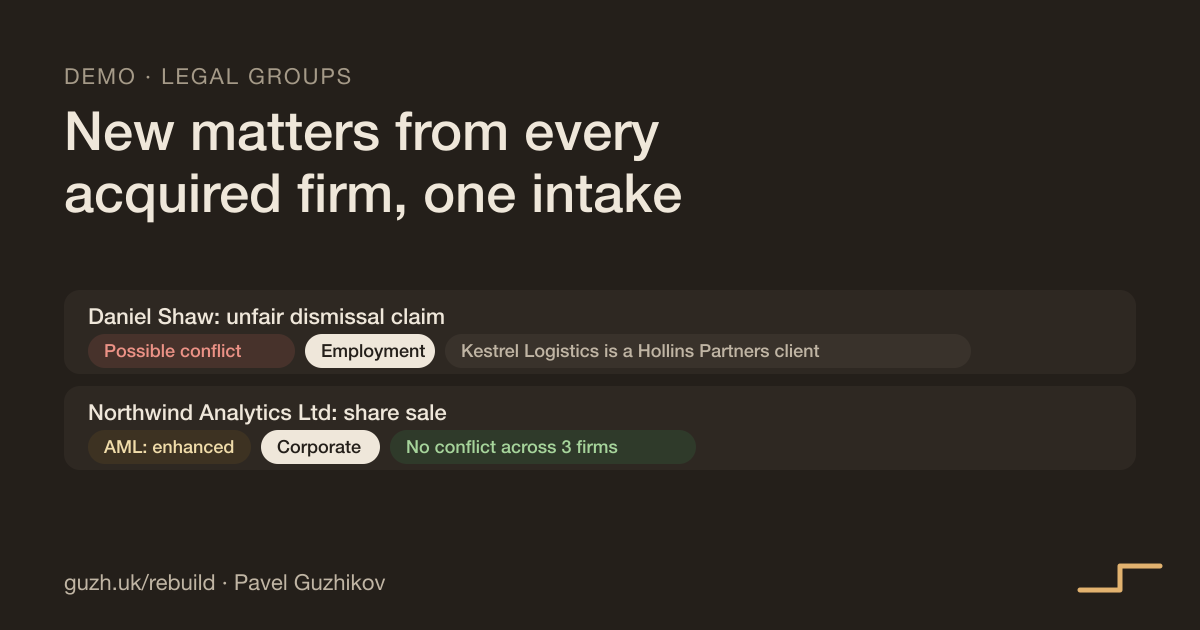
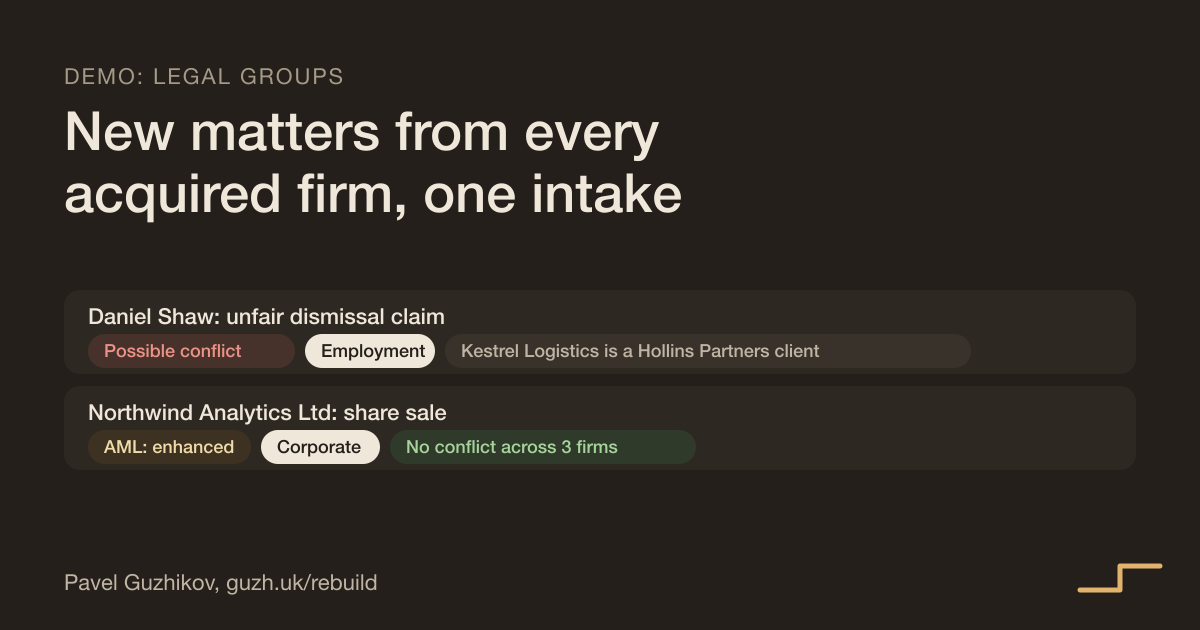
Rebuild pages: no middle dots, no 'invented data' labels
Kickers, footer and share cards no longer use ' · ' separators, and both
generators now refuse to build a page or card containing an em dash or a
middle dot. The demo notes no longer say the data is invented or runs in
the browser; they say how the production build works and who signs off.
Sample registry numbers removed from the lending demo.

Changed region(s): [[0.1233, 0.0905, 0.3083, 0.1508], [0.0308, 0.9048, 0.3392, 0.9349]]

diff --git a/rebuild/lending-intake/index.html b/rebuild/lending-intake/index.html
@@ -199,6 +199,7 @@ label{font-size:14px;color:var(--ink-2)}
 
 .foot{max-width:1040px;margin:0 auto;padding:24px 16px 40px;border-top:1px solid var(--rule-soft);font-size:14px;color:var(--ink-3)}
 .foot p{margin:.3em 0}
+.foot .credit{display:flex;flex-wrap:wrap;gap:6px 18px}
 .foot a{color:var(--ink-2)}
 @media (max-width:640px){
   .home{display:none}
@@ -289,11 +290,11 @@ window.Rebuild = {
 };
 </script>
 <main id="main">
-<p class="kicker">Demo · SME lending</p>
+<p class="kicker">Demo: SME lending</p>
 <h1>A loan pack to a draft credit memo</h1>
 <p class="claim">Your underwriters stop keying bank statements and start every application from a drafted memo with the checks already done. When the facility grows, the same team decides more loans.</p>
 <p class="lead">When a new facility lifts origination, the bottleneck moves to document intake and affordability review. Pick an applicant and press the button: the application and three months of bank statements are read, checked against a lending policy, and written up as a draft memo. The underwriter starts from the decision, not the data entry.</p>
-<p class="note">Invented applicants, statements and policy. In this demo the pack is already text and the checks run in your browser; nothing leaves the page. The production build reads PDFs and scans, pulls the registry and bureau data, applies your credit policy, and every decision stays with the underwriter.</p>
+<p class="note">In production it reads PDFs and scans, pulls registry and bureau data and applies your credit policy. Every decision stays with the underwriter.</p>
 
 <div class="tabsel" id="pick" role="group" aria-label="Applicant"></div>
 <ul class="pipe" id="pipe" aria-label="Steps">
@@ -448,9 +449,9 @@ window.Rebuild = {
   function memo(a, f, list, v) {
     var lines = [];
     lines.push("CREDIT MEMO (DRAFT FOR UNDERWRITER REVIEW)");
-    lines.push("Applicant: " + a.name + " (" + a.reg.number + "), " + a.app.sector.toLowerCase());
+    lines.push("Applicant: " + a.name + ", " + a.app.sector.toLowerCase());
     lines.push("Request: " + R.gbp(a.app.amount) + " over " + a.app.term + " months for " + a.app.purpose.toLowerCase() + ".");
-    lines.push("Indicative repayment: " + R.gbp(f.pay) + " a month at the demo rate of " + Math.round(RATE * 100) + "% a year.");
+    lines.push("Indicative repayment: " + R.gbp(f.pay) + " a month at " + Math.round(RATE * 100) + "% a year.");
     lines.push("");
     lines.push("Trading: average credits " + R.gbp(f.credits) + " and debits " + R.gbp(f.debits) + " a month over three months; closing balance " + R.gbp(f.closing) + ".");
     lines.push("Existing debt service " + R.gbp(f.debt) + " a month. Debt service cover with the new loan " + R.num(f.dscr, 2) + "x.");
@@ -480,7 +481,7 @@ window.Rebuild = {
     pick.querySelectorAll("button").forEach(function (b) { b.setAttribute("aria-pressed", b.dataset.key === a.key ? "true" : "false"); });
     document.getElementById("app").innerHTML = kv([["Business", a.name], ["Director applying", a.app.director], ["Years trading", R.num(a.app.years, 1)],
       ["Amount", R.gbp(a.app.amount)], ["Term", a.app.term + " months"], ["Purpose", a.app.purpose], ["Stated turnover", R.gbp(a.app.turnover) + " a year"]]);
-    document.getElementById("reg").innerHTML = kv([["Number", a.reg.number], ["Status", a.reg.status], ["Incorporated", a.reg.incorporated],
+    document.getElementById("reg").innerHTML = kv([["Status", a.reg.status], ["Incorporated", a.reg.incorporated],
       ["Directors", a.reg.directors.join(", ")], ["CCJs", String(a.reg.ccjs)], ["Filings", a.reg.filings]]);
     var tx = statements(a);
     document.getElementById("txCount").textContent = tx.length;
@@ -534,7 +535,7 @@ window.Rebuild = {
 </main>
 <footer class="foot">
   <p>Empatiq Limited. Write to <a href="mailto:pavel@guzh.uk?subject=Teardown">pavel@guzh.uk</a> for a free 45-minute teardown of one process.</p>
-  <p class="credit"><a href="https://guzh.uk">Made by Pavel Guzhikov</a> · <a href="https://ko-fi.com/pavelg" target="_blank" rel="noopener noreferrer">Buy me a matcha 🍵</a></p>
+  <p class="credit"><a href="https://guzh.uk">Made by Pavel Guzhikov</a> <a href="https://ko-fi.com/pavelg" target="_blank" rel="noopener noreferrer">Buy me a matcha 🍵</a></p>
 </footer>
 </body>
 </html>

diff --git a/tools/rebuild/lending-intake.html b/tools/rebuild/lending-intake.html
@@ -1,8 +1,8 @@
-<p class="kicker">Demo · SME lending</p>
+<p class="kicker">Demo: SME lending</p>
 <h1>A loan pack to a draft credit memo</h1>
 <p class="claim">Your underwriters stop keying bank statements and start every application from a drafted memo with the checks already done. When the facility grows, the same team decides more loans.</p>
 <p class="lead">When a new facility lifts origination, the bottleneck moves to document intake and affordability review. Pick an applicant and press the button: the application and three months of bank statements are read, checked against a lending policy, and written up as a draft memo. The underwriter starts from the decision, not the data entry.</p>
-<p class="note">Invented applicants, statements and policy. In this demo the pack is already text and the checks run in your browser; nothing leaves the page. The production build reads PDFs and scans, pulls the registry and bureau data, applies your credit policy, and every decision stays with the underwriter.</p>
+<p class="note">In production it reads PDFs and scans, pulls registry and bureau data and applies your credit policy. Every decision stays with the underwriter.</p>
 
 <div class="tabsel" id="pick" role="group" aria-label="Applicant"></div>
 <ul class="pipe" id="pipe" aria-label="Steps">
@@ -157,9 +157,9 @@
   function memo(a, f, list, v) {
     var lines = [];
     lines.push("CREDIT MEMO (DRAFT FOR UNDERWRITER REVIEW)");
-    lines.push("Applicant: " + a.name + " (" + a.reg.number + "), " + a.app.sector.toLowerCase());
+    lines.push("Applicant: " + a.name + ", " + a.app.sector.toLowerCase());
     lines.push("Request: " + R.gbp(a.app.amount) + " over " + a.app.term + " months for " + a.app.purpose.toLowerCase() + ".");
-    lines.push("Indicative repayment: " + R.gbp(f.pay) + " a month at the demo rate of " + Math.round(RATE * 100) + "% a year.");
+    lines.push("Indicative repayment: " + R.gbp(f.pay) + " a month at " + Math.round(RATE * 100) + "% a year.");
     lines.push("");
     lines.push("Trading: average credits " + R.gbp(f.credits) + " and debits " + R.gbp(f.debits) + " a month over three months; closing balance " + R.gbp(f.closing) + ".");
     lines.push("Existing debt service " + R.gbp(f.debt) + " a month. Debt service cover with the new loan " + R.num(f.dscr, 2) + "x.");
@@ -189,7 +189,7 @@
     pick.querySelectorAll("button").forEach(function (b) { b.setAttribute("aria-pressed", b.dataset.key === a.key ? "true" : "false"); });
     document.getElementById("app").innerHTML = kv([["Business", a.name], ["Director applying", a.app.director], ["Years trading", R.num(a.app.years, 1)],
       ["Amount", R.gbp(a.app.amount)], ["Term", a.app.term + " months"], ["Purpose", a.app.purpose], ["Stated turnover", R.gbp(a.app.turnover) + " a year"]]);
-    document.getElementById("reg").innerHTML = kv([["Number", a.reg.number], ["Status", a.reg.status], ["Incorporated", a.reg.incorporated],
+    document.getElementById("reg").innerHTML = kv([["Status", a.reg.status], ["Incorporated", a.reg.incorporated],
       ["Directors", a.reg.directors.join(", ")], ["CCJs", String(a.reg.ccjs)], ["Filings", a.reg.filings]]);
     var tx = statements(a);
     document.getElementById("txCount").textContent = tx.length;

diff --git a/rebuild/broker-submissions/index.html b/rebuild/broker-submissions/index.html
@@ -199,6 +199,7 @@ label{font-size:14px;color:var(--ink-2)}
 
 .foot{max-width:1040px;margin:0 auto;padding:24px 16px 40px;border-top:1px solid var(--rule-soft);font-size:14px;color:var(--ink-3)}
 .foot p{margin:.3em 0}
+.foot .credit{display:flex;flex-wrap:wrap;gap:6px 18px}
 .foot a{color:var(--ink-2)}
 @media (max-width:640px){
   .home{display:none}
@@ -289,11 +290,11 @@ window.Rebuild = {
 };
 </script>
 <main id="main">
-<p class="kicker">Demo · insurance brokers and MGAs</p>
+<p class="kicker">Demo: insurance brokers and MGAs</p>
 <h1>A client's renewal information to a market-ready submission</h1>
 <p class="claim">Your handlers stop rekeying renewals and chasing missing details by hand. Every submission reaches insurers complete, and only the ones that will quote, so the same team places more business.</p>
 <p class="lead">Renewal information arrives as an email, last year's schedule and a claims list, in a different shape for every client and every acquired book. Pick a client and press the button: the risk details are read, gaps found, the claims record scored, the panel's appetite checked, and a submission and a chaser to the client drafted.</p>
-<p class="note">Invented clients, insurers and appetite rules. In this demo the information is already text and the checks run in your browser; nothing leaves the page. The production build reads emails, PDFs and spreadsheets from your inbox and broking system, uses your real panel appetite, and a broker approves every submission before it goes.</p>
+<p class="note">In production it reads emails, PDFs and spreadsheets from your inbox and broking system and uses your real panel appetite. A broker approves every submission before it goes.</p>
 
 <div class="tabsel" id="pick" role="group" aria-label="Client"></div>
 <ul class="pipe" id="pipe" aria-label="Steps">
@@ -371,7 +372,7 @@ window.Rebuild = {
       claims: [["2024", "Rear-end collision, M62", 86000], ["2024", "Third-party injury", 142000], ["2024", "Reversing damage", 9000], ["2025", "Load shift, trailer", 31000],
                ["2025", "Rear-end collision", 54000], ["2025", "Windscreen", 1200], ["2026", "Third-party vehicle", 47000], ["2026", "Reversing damage", 7800], ["2026", "Side-swipe, third-party car", 32000]] }
   ];
-  /* The invented panel: who writes what */
+  /* The panel: who writes what */
   var PANEL = [
     { name: "Ashgrove Insurance", cls: "combined", trades: ["food manufacturing", "residential property owning"], maxLR: 50, unoccupied: false },
     { name: "Wexcombe Mutual", cls: "combined", trades: ["food manufacturing"], maxLR: 60, unoccupied: false },
@@ -483,7 +484,7 @@ window.Rebuild = {
 </main>
 <footer class="foot">
   <p>Empatiq Limited. Write to <a href="mailto:pavel@guzh.uk?subject=Teardown">pavel@guzh.uk</a> for a free 45-minute teardown of one process.</p>
-  <p class="credit"><a href="https://guzh.uk">Made by Pavel Guzhikov</a> · <a href="https://ko-fi.com/pavelg" target="_blank" rel="noopener noreferrer">Buy me a matcha 🍵</a></p>
+  <p class="credit"><a href="https://guzh.uk">Made by Pavel Guzhikov</a> <a href="https://ko-fi.com/pavelg" target="_blank" rel="noopener noreferrer">Buy me a matcha 🍵</a></p>
 </footer>
 </body>
 </html>

diff --git a/rebuild/block-requests/index.html b/rebuild/block-requests/index.html
@@ -199,6 +199,7 @@ label{font-size:14px;color:var(--ink-2)}
 
 .foot{max-width:1040px;margin:0 auto;padding:24px 16px 40px;border-top:1px solid var(--rule-soft);font-size:14px;color:var(--ink-3)}
 .foot p{margin:.3em 0}
+.foot .credit{display:flex;flex-wrap:wrap;gap:6px 18px}
 .foot a{color:var(--ink-2)}
 @media (max-width:640px){
   .home{display:none}
@@ -289,11 +290,11 @@ window.Rebuild = {
 };
 </script>
 <main id="main">
-<p class="kicker">Demo · block management</p>
+<p class="kicker">Demo: block management</p>
 <h1>Residents' requests, triaged in seconds</h1>
 <p class="claim">Your team stops reading, sorting and forwarding every resident email by hand. Each one is routed and answered as it arrives, emergencies first, so the same team can run more blocks.</p>
 <p class="lead">A block manager's shared inbox on a Monday morning. Press the button: each email is sorted by kind and urgency, matched to its block and flat, routed to the right contractor or team, and answered. Chasers are linked to the job already open, so nobody books the same plumber twice.</p>
-<p class="note">Invented sample data. In this demo the sorting runs on plain rules in your browser and nothing leaves the page. The production build reads the real inbox, uses a language model with your block list and contractor rota, and a person approves anything it is unsure of.</p>
+<p class="note">In production it reads your real inbox with your block list and contractor rota, and a person approves anything it is unsure of.</p>
 
 <ul class="pipe" id="pipe" aria-label="Steps">
   <li>Read</li><li>Sort and score urgency</li><li>Match block and flat</li><li>Link chasers</li><li>Route</li><li>Answer</li>
@@ -307,7 +308,7 @@ window.Rebuild = {
 <div class="inbox" id="inbox"></div>
 
 <h2>Try one of your own</h2>
-<p class="muted">Paste or write a resident's email. Use one of the sample blocks (Marlowe Court, Kestrel House, The Foundry, Albion Wharf) to see it matched.</p>
+<p class="muted">Paste or write a resident's email. Use one of these blocks (Marlowe Court, Kestrel House, The Foundry, Albion Wharf) to see it matched.</p>
 <textarea id="own" aria-label="A resident's email">Hi, water is coming through the ceiling of Flat 14 at Kestrel House from the flat above, it's getting worse and near the light fitting. Please send someone today.</textarea>
 <div class="row"><button class="btn" id="one" type="button"><span class="spin" aria-hidden="true"></span><span>Triage it</span></button></div>
 <div id="oneOut"></div>
@@ -491,7 +492,7 @@ window.Rebuild = {
 </main>
 <footer class="foot">
   <p>Empatiq Limited. Write to <a href="mailto:pavel@guzh.uk?subject=Teardown">pavel@guzh.uk</a> for a free 45-minute teardown of one process.</p>
-  <p class="credit"><a href="https://guzh.uk">Made by Pavel Guzhikov</a> · <a href="https://ko-fi.com/pavelg" target="_blank" rel="noopener noreferrer">Buy me a matcha 🍵</a></p>
+  <p class="credit"><a href="https://guzh.uk">Made by Pavel Guzhikov</a> <a href="https://ko-fi.com/pavelg" target="_blank" rel="noopener noreferrer">Buy me a matcha 🍵</a></p>
 </footer>
 </body>
 </html>

diff --git a/rebuild/legal-intake/index.html b/rebuild/legal-intake/index.html
@@ -199,6 +199,7 @@ label{font-size:14px;color:var(--ink-2)}
 
 .foot{max-width:1040px;margin:0 auto;padding:24px 16px 40px;border-top:1px solid var(--rule-soft);font-size:14px;color:var(--ink-3)}
 .foot p{margin:.3em 0}
+.foot .credit{display:flex;flex-wrap:wrap;gap:6px 18px}
 .foot a{color:var(--ink-2)}
 @media (max-width:640px){
   .home{display:none}
@@ -289,11 +290,11 @@ window.Rebuild = {
 };
 </script>
 <main id="main">
-<p class="kicker">Demo · legal groups</p>
+<p class="kicker">Demo: legal groups</p>
 <h1>New matters from every acquired firm, one intake</h1>
 <p class="claim">Your teams stop searching each acquired firm's old system for conflicts. Every new matter at every firm you buy is checked against the whole group before work starts, from the first week.</p>
 <p class="lead">A legal group has bought three firms, and each still opens matters its own way. Press the button: every new enquiry is read, given a matter type and a team, checked for conflicts against all three firms' old client lists at once, risk-rated for anti-money-laundering checks, and given a draft client care letter. Duplicates sent to two firms are merged.</p>
-<p class="note">Invented firms, people and companies. In this demo the matching runs on plain rules in your browser and nothing leaves the page. The production build reads each firm's inbox and practice management system, uses a language model and your group risk policy, and a fee earner signs off every conflict and every new client.</p>
+<p class="note">In production it reads each firm's inbox and case management system and applies your group risk policy. A fee earner signs off every conflict and every new client.</p>
 
 <div class="grid">
   <div class="card"><h3>The group</h3><p class="muted">Ashby &amp; Lowe (Leeds), Hollins Partners (Bristol) and Marsh Gate Law (London), each on its own case management system.</p></div>
@@ -523,7 +524,7 @@ window.Rebuild = {
 </main>
 <footer class="foot">
   <p>Empatiq Limited. Write to <a href="mailto:pavel@guzh.uk?subject=Teardown">pavel@guzh.uk</a> for a free 45-minute teardown of one process.</p>
-  <p class="credit"><a href="https://guzh.uk">Made by Pavel Guzhikov</a> · <a href="https://ko-fi.com/pavelg" target="_blank" rel="noopener noreferrer">Buy me a matcha 🍵</a></p>
+  <p class="credit"><a href="https://guzh.uk">Made by Pavel Guzhikov</a> <a href="https://ko-fi.com/pavelg" target="_blank" rel="noopener noreferrer">Buy me a matcha 🍵</a></p>
 </footer>
 </body>
 </html>

diff --git a/rebuild/index.html b/rebuild/index.html
@@ -199,6 +199,7 @@ label{font-size:14px;color:var(--ink-2)}
 
 .foot{max-width:1040px;margin:0 auto;padding:24px 16px 40px;border-top:1px solid var(--rule-soft);font-size:14px;color:var(--ink-3)}
 .foot p{margin:.3em 0}
+.foot .credit{display:flex;flex-wrap:wrap;gap:6px 18px}
 .foot a{color:var(--ink-2)}
 @media (max-width:640px){
   .home{display:none}
@@ -289,7 +290,7 @@ window.Rebuild = {
 };
 </script>
 <main id="main">
-<p class="kicker">Empatiq · process re-engineering</p>
+<p class="kicker">Empatiq Limited: process re-engineering</p>
 <h1>The same back-office work, with fewer people and fewer mistakes</h1>
 <p class="claim">Your team stops copying, checking and chasing by hand in one process it runs every day. The same people handle more work, without new hires and with fewer mistakes, and you see the hours saved, counted before and after.</p>
 <p class="lead">How: we map one process end to end, then take the hand work out of it with software, live in 4 to 6 weeks, at a fixed price. Not a strategy deck: a process that runs differently on Monday.</p>
@@ -302,7 +303,6 @@ window.Rebuild = {
 <p>Because it works by people doing it by hand. That holds until the volume jumps: a new funding line, an acquisition, a busy season. Then you hire, or things get missed. We keep what works, the rules, the checks, the judgement, and take out the copying, keying and chasing around them. Growth stops needing headcount, and the team you have does the work only people can do.</p>
 
 <h2>Four demos you can run now</h2>
-<p class="muted">Both run in your browser on invented sample data. Nothing you type leaves the page.</p>
 <div class="grid">
   <a class="card" href="/rebuild/block-requests/">
     <p class="kicker">Block management and lettings</p>
@@ -361,7 +361,7 @@ window.Rebuild = {
 </main>
 <footer class="foot">
   <p>Empatiq Limited. Write to <a href="mailto:pavel@guzh.uk?subject=Teardown">pavel@guzh.uk</a> for a free 45-minute teardown of one process.</p>
-  <p class="credit"><a href="https://guzh.uk">Made by Pavel Guzhikov</a> · <a href="https://ko-fi.com/pavelg" target="_blank" rel="noopener noreferrer">Buy me a matcha 🍵</a></p>
+  <p class="credit"><a href="https://guzh.uk">Made by Pavel Guzhikov</a> <a href="https://ko-fi.com/pavelg" target="_blank" rel="noopener noreferrer">Buy me a matcha 🍵</a></p>
 </footer>
 </body>
 </html>

diff --git a/tools/rebuild/broker-submissions.html b/tools/rebuild/broker-submissions.html
@@ -1,8 +1,8 @@
-<p class="kicker">Demo · insurance brokers and MGAs</p>
+<p class="kicker">Demo: insurance brokers and MGAs</p>
 <h1>A client's renewal information to a market-ready submission</h1>
 <p class="claim">Your handlers stop rekeying renewals and chasing missing details by hand. Every submission reaches insurers complete, and only the ones that will quote, so the same team places more business.</p>
 <p class="lead">Renewal information arrives as an email, last year's schedule and a claims list, in a different shape for every client and every acquired book. Pick a client and press the button: the risk details are read, gaps found, the claims record scored, the panel's appetite checked, and a submission and a chaser to the client drafted.</p>
-<p class="note">Invented clients, insurers and appetite rules. In this demo the information is already text and the checks run in your browser; nothing leaves the page. The production build reads emails, PDFs and spreadsheets from your inbox and broking system, uses your real panel appetite, and a broker approves every submission before it goes.</p>
+<p class="note">In production it reads emails, PDFs and spreadsheets from your inbox and broking system and uses your real panel appetite. A broker approves every submission before it goes.</p>
 
 <div class="tabsel" id="pick" role="group" aria-label="Client"></div>
 <ul class="pipe" id="pipe" aria-label="Steps">
@@ -80,7 +80,7 @@
       claims: [["2024", "Rear-end collision, M62", 86000], ["2024", "Third-party injury", 142000], ["2024", "Reversing damage", 9000], ["2025", "Load shift, trailer", 31000],
                ["2025", "Rear-end collision", 54000], ["2025", "Windscreen", 1200], ["2026", "Third-party vehicle", 47000], ["2026", "Reversing damage", 7800], ["2026", "Side-swipe, third-party car", 32000]] }
   ];
-  /* The invented panel: who writes what */
+  /* The panel: who writes what */
   var PANEL = [
     { name: "Ashgrove Insurance", cls: "combined", trades: ["food manufacturing", "residential property owning"], maxLR: 50, unoccupied: false },
     { name: "Wexcombe Mutual", cls: "combined", trades: ["food manufacturing"], maxLR: 60, unoccupied: false },

diff --git a/tools/rebuild/block-requests.html b/tools/rebuild/block-requests.html
@@ -1,8 +1,8 @@
-<p class="kicker">Demo · block management</p>
+<p class="kicker">Demo: block management</p>
 <h1>Residents' requests, triaged in seconds</h1>
 <p class="claim">Your team stops reading, sorting and forwarding every resident email by hand. Each one is routed and answered as it arrives, emergencies first, so the same team can run more blocks.</p>
 <p class="lead">A block manager's shared inbox on a Monday morning. Press the button: each email is sorted by kind and urgency, matched to its block and flat, routed to the right contractor or team, and answered. Chasers are linked to the job already open, so nobody books the same plumber twice.</p>
-<p class="note">Invented sample data. In this demo the sorting runs on plain rules in your browser and nothing leaves the page. The production build reads the real inbox, uses a language model with your block list and contractor rota, and a person approves anything it is unsure of.</p>
+<p class="note">In production it reads your real inbox with your block list and contractor rota, and a person approves anything it is unsure of.</p>
 
 <ul class="pipe" id="pipe" aria-label="Steps">
   <li>Read</li><li>Sort and score urgency</li><li>Match block and flat</li><li>Link chasers</li><li>Route</li><li>Answer</li>
@@ -16,7 +16,7 @@
 <div class="inbox" id="inbox"></div>
 
 <h2>Try one of your own</h2>
-<p class="muted">Paste or write a resident's email. Use one of the sample blocks (Marlowe Court, Kestrel House, The Foundry, Albion Wharf) to see it matched.</p>
+<p class="muted">Paste or write a resident's email. Use one of these blocks (Marlowe Court, Kestrel House, The Foundry, Albion Wharf) to see it matched.</p>
 <textarea id="own" aria-label="A resident's email">Hi, water is coming through the ceiling of Flat 14 at Kestrel House from the flat above, it's getting worse and near the light fitting. Please send someone today.</textarea>
 <div class="row"><button class="btn" id="one" type="button"><span class="spin" aria-hidden="true"></span><span>Triage it</span></button></div>
 <div id="oneOut"></div>

diff --git a/tools/rebuild/legal-intake.html b/tools/rebuild/legal-intake.html
@@ -1,8 +1,8 @@
-<p class="kicker">Demo · legal groups</p>
+<p class="kicker">Demo: legal groups</p>
 <h1>New matters from every acquired firm, one intake</h1>
 <p class="claim">Your teams stop searching each acquired firm's old system for conflicts. Every new matter at every firm you buy is checked against the whole group before work starts, from the first week.</p>
 <p class="lead">A legal group has bought three firms, and each still opens matters its own way. Press the button: every new enquiry is read, given a matter type and a team, checked for conflicts against all three firms' old client lists at once, risk-rated for anti-money-laundering checks, and given a draft client care letter. Duplicates sent to two firms are merged.</p>
-<p class="note">Invented firms, people and companies. In this demo the matching runs on plain rules in your browser and nothing leaves the page. The production build reads each firm's inbox and practice management system, uses a language model and your group risk policy, and a fee earner signs off every conflict and every new client.</p>
+<p class="note">In production it reads each firm's inbox and case management system and applies your group risk policy. A fee earner signs off every conflict and every new client.</p>
 
 <div class="grid">
   <div class="card"><h3>The group</h3><p class="muted">Ashby &amp; Lowe (Leeds), Hollins Partners (Bristol) and Marsh Gate Law (London), each on its own case management system.</p></div>

diff --git a/tools/rebuild/index.html b/tools/rebuild/index.html
@@ -1,4 +1,4 @@
-<p class="kicker">Empatiq · process re-engineering</p>
+<p class="kicker">Empatiq Limited: process re-engineering</p>
 <h1>The same back-office work, with fewer people and fewer mistakes</h1>
 <p class="claim">Your team stops copying, checking and chasing by hand in one process it runs every day. The same people handle more work, without new hires and with fewer mistakes, and you see the hours saved, counted before and after.</p>
 <p class="lead">How: we map one process end to end, then take the hand work out of it with software, live in 4 to 6 weeks, at a fixed price. Not a strategy deck: a process that runs differently on Monday.</p>
@@ -11,7 +11,6 @@
 <p>Because it works by people doing it by hand. That holds until the volume jumps: a new funding line, an acquisition, a busy season. Then you hire, or things get missed. We keep what works, the rules, the checks, the judgement, and take out the copying, keying and chasing around them. Growth stops needing headcount, and the team you have does the work only people can do.</p>
 
 <h2>Four demos you can run now</h2>
-<p class="muted">Both run in your browser on invented sample data. Nothing you type leaves the page.</p>
 <div class="grid">
   <a class="card" href="/rebuild/block-requests/">
     <p class="kicker">Block management and lettings</p>

diff --git a/tools/rebuild/rebuild.css b/tools/rebuild/rebuild.css
@@ -163,6 +163,7 @@ label{font-size:14px;color:var(--ink-2)}
 
 .foot{max-width:1040px;margin:0 auto;padding:24px 16px 40px;border-top:1px solid var(--rule-soft);font-size:14px;color:var(--ink-3)}
 .foot p{margin:.3em 0}
+.foot .credit{display:flex;flex-wrap:wrap;gap:6px 18px}
 .foot a{color:var(--ink-2)}
 @media (max-width:640px){
   .home{display:none}

diff --git a/tools/make-rebuild-og.py b/tools/make-rebuild-og.py
@@ -29,7 +29,7 @@ def frame(kicker, title_lines, inner):
     return (f'<svg xmlns="http://www.w3.org/2000/svg" width="1200" height="630" font-family="{FONT}">'
             f'<rect width="1200" height="630" fill="{BG}"/>'
             f'<text x="64" y="84" font-size="22" letter-spacing="2" fill="{INK3}">{kicker}</text>{t}{inner}'
-            f'<text x="64" y="590" font-size="22" fill="{INK2}">guzh.uk/rebuild · Pavel Guzhikov</text>'
+            f'<text x="64" y="590" font-size="22" fill="{INK2}">Pavel Guzhikov, guzh.uk/rebuild</text>'
             f'<path d="M1080 590 h40 v-24 h40" fill="none" stroke="{ACC}" stroke-width="5" stroke-linecap="round" stroke-linejoin="round"/></svg>')
 
 def mail(y, subj, chips):
@@ -42,32 +42,34 @@ def mail(y, subj, chips):
     return s
 
 cards = {
-    "block-requests-og.png": frame("DEMO · BLOCK MANAGEMENT", ["Residents' requests,", "triaged in seconds"],
+    "block-requests-og.png": frame("DEMO: BLOCK MANAGEMENT", ["Residents' requests,", "triaged in seconds"],
         mail(290, "Water pouring through ceiling", [("Emergency", RED, RBG), ("Leak or water", BG, INK), ("Albion Wharf, Flat 22", INK2, "#39322B"), ("→ Plumber on call", INK2, "#39322B")]) +
         mail(386, "Re: Lift out again", [("24 hours", AMB, ABG), ("Lift", BG, INK), ("Marlowe Court, Flat 31", INK2, "#39322B"), ("→ Added to J-1042", INK2, "#39322B")]) +
         ""),
-    "lending-intake-og.png": frame("DEMO · SME LENDING", ["A loan pack to a", "draft credit memo"],
+    "lending-intake-og.png": frame("DEMO: SME LENDING", ["A loan pack to a", "draft credit memo"],
         f'<rect x="64" y="290" width="1072" height="250" rx="16" fill="{LIFT}"/>'
-        f'<text x="92" y="334" font-size="22" font-weight="600" fill="{INK}">Northgate Coffee Roasters Ltd · £40,000 over 24 months</text>' +
+        f'<text x="92" y="334" font-size="22" font-weight="600" fill="{INK}">Northgate Coffee Roasters Ltd: £40,000 over 24 months</text>' +
         "".join(f'{chip(92, 356 + i * 44, s, fg, bg)[0]}<text x="{92 + 16 + len(s) * 11.0 + 18:.0f}" y="{379 + i * 44}" font-size="20" fill="{INK2}">{t}</text>'
                 for i, (s, fg, bg, t) in enumerate([("pass", GRN, GBG, "Applicant is a director"), ("refer", AMB, ABG, "Statements annualise 22% below stated turnover"),
                                                      ("refer", AMB, ABG, "Debt service cover 1.16x against 1.25x policy"), ("draft", BG, ACC, "Credit memo written for the underwriter")]))),
-    "rebuild-og.png": frame("EMPATIQ · PROCESS RE-ENGINEERING", ["The same back-office work,", "with fewer people"],
+    "rebuild-og.png": frame("EMPATIQ: PROCESS RE-ENGINEERING", ["The same back-office work,", "with fewer people"],
         f'<text x="64" y="330" font-size="30" fill="{INK2}">No more copying, keying and chasing by hand.</text>'
         f'<text x="64" y="376" font-size="30" fill="{INK2}">Live in 4 to 6 weeks. Fixed price. Hours counted.</text>' +
         row(64, 420, [("Teardown, free", BG, ACC), ("Audit, 2 weeks", INK2, "#39322B"),
                       ("Build, 4 to 6 weeks", INK2, "#39322B"), ("Run and improve", INK2, "#39322B")])),
-    "legal-intake-og.png": frame("DEMO · LEGAL GROUPS", ["New matters from every", "acquired firm, one intake"],
+    "legal-intake-og.png": frame("DEMO: LEGAL GROUPS", ["New matters from every", "acquired firm, one intake"],
         mail(290, "Daniel Shaw: unfair dismissal claim", [("Possible conflict", RED, RBG), ("Employment", BG, INK), ("Kestrel Logistics is a Hollins Partners client", INK2, "#39322B")]) +
         mail(386, "Northwind Analytics Ltd: share sale", [("AML: enhanced", AMB, ABG), ("Corporate", BG, INK), ("No conflict across 3 firms", GRN, GBG)])),
-    "broker-submissions-og.png": frame("DEMO · INSURANCE BROKERS", ["Renewal information to a", "market-ready submission"],
+    "broker-submissions-og.png": frame("DEMO: INSURANCE BROKERS", ["Renewal information to a", "market-ready submission"],
         f'<rect x="64" y="290" width="1072" height="250" rx="16" fill="{LIFT}"/>'
-        f'<text x="92" y="334" font-size="22" font-weight="600" fill="{INK}">Harbourside Lettings Group Ltd · renewal 15 Jan 2027</text>' +
+        f'<text x="92" y="334" font-size="22" font-weight="600" fill="{INK}">Harbourside Lettings Group Ltd: renewal on 15 Jan 2027</text>' +
         "".join(f'{chip(92, 356 + i * 44, s, fg, bg)[0]}<text x="{92 + 16 + len(s) * 11.0 + 18:.0f}" y="{379 + i * 44}" font-size="20" fill="{INK2}">{t}</text>'
                 for i, (s, fg, bg, t) in enumerate([("missing", AMB, ABG, "Values for 3 flats from the acquired Clifton book"), ("39%", INK2, "#39322B", "Loss ratio on the expiring premium"),
                                                      ("out", RED, RBG, "Ashgrove Insurance: no unoccupied buildings"), ("approach", GRN, GBG, "Pennant Specialty (MGA)")]))),
 }
 for name, svg in cards.items():
+    if "\u2014" in svg or "\u00b7" in svg:
+        raise SystemExit(f"{name}: em dash or middle dot in the card text")
     with tempfile.NamedTemporaryFile("w", suffix=".svg", delete=False) as f:
         f.write(svg)
     subprocess.run(["rsvg-convert", "-w", "1200", "-h", "630", "-o", str(OUT / name), f.name], check=True)
